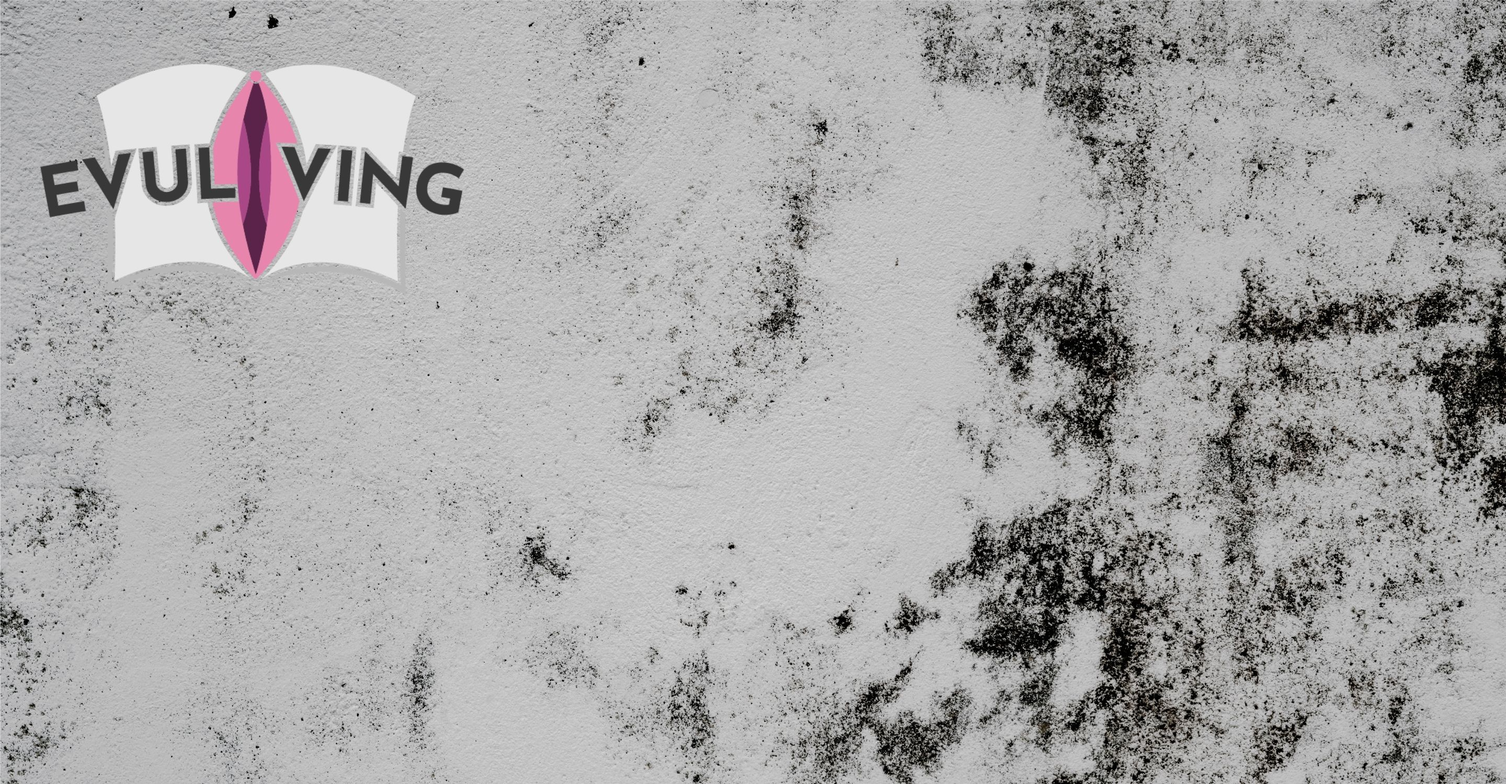
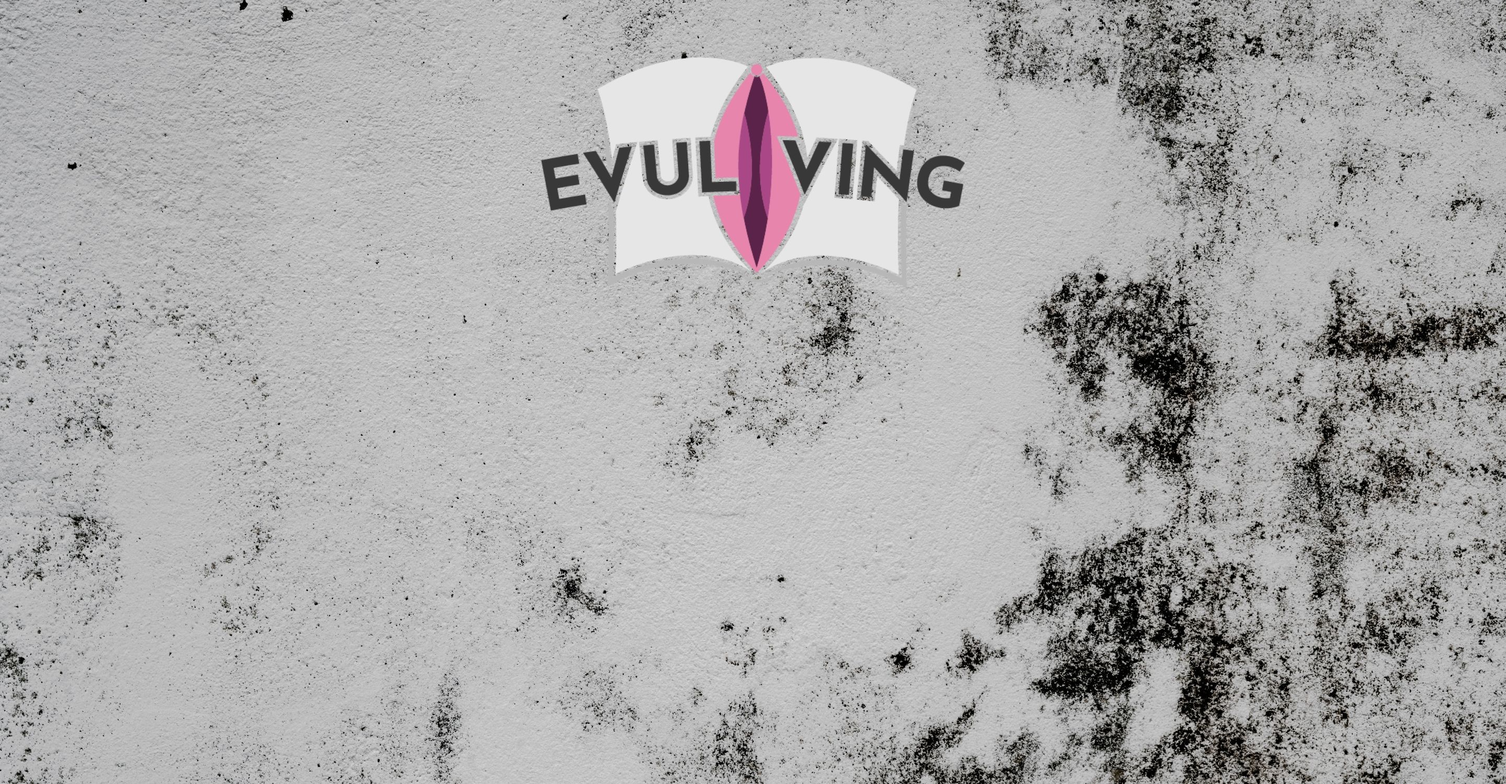
remove gradient completely

diff --git a/css/main.scss b/css/main.scss
@@ -1685,7 +1685,7 @@ $baseurl: '{{ site.baseurl }}/images';
 	#main {
 		> header {
 			@include padding(12em, 0);
-			@include vendor('background-image', ('linear-gradient(top, rgba(0,0,0,0.2), rgba(0,0,0,0.2))', 'url("#{$baseurl}/banner.jpg")'));
+			@include vendor('background-image', ('linear-gradient(top, rgba(0,0,0,0), rgba(0,0,0,0))', 'url("#{$baseurl}/banner.jpg")'));
 			background-attachment: fixed;
 			background-position: center center;
 			background-repeat: no-repeat;
